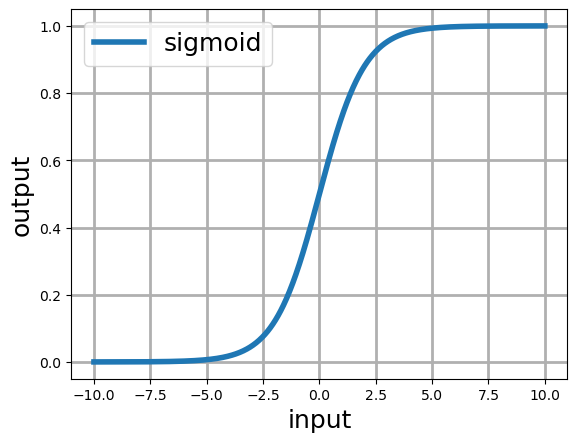
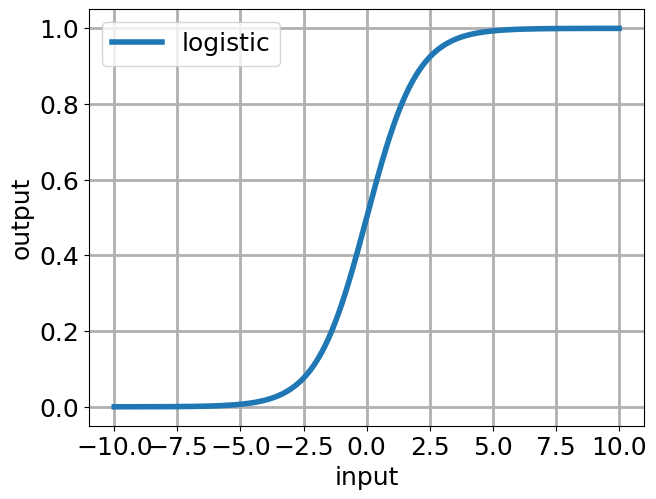
Changes to be committed: 	modified:   TeX_ML/ei_ml_arxiv/Figures/scripts/actfuncs.py 	modified:   TeX_ML/ei_ml_arxiv/Figures/scripts/logistic.png 	modified:   TeX_ML/ei_ml_arxiv/Figures/scripts/minsoftplus.png 	modified:   TeX_ML/ei_ml_arxiv/Figures/scripts/softplus.png 	modified:   TeX_ML/ei_ml_arx

Changed region(s): [[0.0, 0.0, 0.9983, 1.0]]

diff --git a/TeX_ML/ei_ml_arxiv/ei_ml_arxiv.tex b/TeX_ML/ei_ml_arxiv/ei_ml_arxiv.tex
@@ -318,32 +318,32 @@ Finally we note that as a final post-processing step we can apply thresholding (
 \begin{figure}[h]
   \centering
   %
-  \begin{subfigure}[c]{0.45\linewidth}
+  \begin{subfigure}[c]{5.5cm}
     \includegraphics[totalheight=4cm]{Figures/scripts/softplus.png}
     \caption{softplus}
   \end{subfigure}
   %
-  \begin{subfigure}[c]{0.45\linewidth}
+  \begin{subfigure}[c]{5.5cm}
     \includegraphics[totalheight=4cm]{Figures/scripts/logistic.png}
     \caption{logistic}
-  \end{subfigure}
+  \end{subfigure}\\
   %
-  \begin{subfigure}[c]{0.45\linewidth}
+  \begin{subfigure}[c]{5.5cm}
     \includegraphics[totalheight=4cm]{Figures/scripts/tanh.png}
     \caption{tanh}
   \end{subfigure}
   %
-  %\begin{subfigure}[c]{0.45\linewidth}
+  %\begin{subfigure}[c]{0.23\linewidth}
   %  \includegraphics[totalheight=4cm]{Figures/scripts/minsoftplus.png}
   %  \caption{softplusmin}
   %\end{subfigure}
   %
-  \begin{subfigure}[c]{0.45\linewidth}
+  \begin{subfigure}[c]{5.5cm}
     \includegraphics[totalheight=4cm]{Figures/scripts/twistedtanh.png}
     \caption{twisted tanh}
   \end{subfigure}
   %
-\caption{\label{fig:activations} Activations functions for equations (\ref{eqn:softplus}-\ref{eqn:twisttanh}).}
+\caption{\label{fig:activations} Activation functions for equations (\ref{eqn:softplus}-\ref{eqn:twisttanh}).}
 \end{figure}
 %
 \begin{table}
@@ -411,7 +411,7 @@ A CNN capable of predicting shear modulus fields from displacement or strain fie
 \item{Training CNNs to recognize nonlinear parameters would be a worthwhile research direction.}
 \item{A hybrid approach combining machine learning and traditional approaches (iterative or direct) will be interesting. We envision that the ML based approach will provide a measure of the confidence in its output. If this is confidence is low, then a solution will be computed using traditional methods and perhaps added to the machine learning training dataset.}
 \item{Extending the method studied in this document to predict multiple parameter fields will be interesting, because the method will have to study the features in the displacement or strain fields and then decide which parameter field was responsible for producing those features. Such cases will occur when we try to predict both $\lambda(x)$ and $\mu(x)$ for linear elasticity or the nonlinear parameter $\gamma(x)$ and the linear parameter $\mu(x)$ as in \cite{paper:gokhale2008}}
-\item{Software and performance issues: The finite element solver and associated scripts for generating the data were written in Python 3.8. Python is slow and much better performance could be obtained by writing the solver in C/C++/Fortran or Julia or using open source solvers like FEniCS \cite{paper:fenics} or deal.II \cite{misc:deal.ii}. Each FE input file is 3.3MB and output file is 1.1MB and total dataset size is $\approx$  20GB. Approximately 10 seconds were required to compute one training example. There was no effort made to minimize the size of input and output files. Simple text based JSON files were used because of their simplicity. If one wants increase the number of training examples by a factor of thousand, 20TB of data would be required. Optimized data structures and hardware supporting fast disk access (SSDs) will be necessary for scaling to large data sets. The use of GPU clusters to process large amounts of data may also need to be considered. The simulations to generate data and the CNN training in this work were carried out on an Intel i5-4460 3.2Ghz processor with four physical and logical cores and 8GB RAM. The OS used was Windows 10 running WSL2. TensorFlow 2.4 was used.}
+\item{Software and performance issues: The finite element solver and associated scripts for generating the data were written in Python 3.8. While the elements were accelerated using Numba \cite{conf:numba}, we believe that better performance could be obtained by writing the solver in C/C++/Fortran or Julia or using open source solvers like FEniCS \cite{paper:fenics} or deal.II \cite{misc:deal.ii}. Each FE input file is 3.3MB and output file is 1.1MB and total dataset size is $\approx$  20GB. Approximately 10 seconds were required to compute one training example. There was no effort made to minimize the size of input and output files. Simple text based JSON files were used because of their simplicity. If one wants increase the number of training examples by a factor of thousand, 20TB of data would be required. Optimized data structures and hardware supporting fast disk access (SSDs) will be necessary for scaling to large data sets. The use of GPU clusters to process large amounts of data may also need to be considered. The simulations to generate data and the CNN training in this work were carried out on an Intel i5-4460 3.2Ghz processor with four physical and logical cores and 8GB RAM. The OS used was Windows 10 running WSL2. TensorFlow 2.4 was used.}
 \end{enumerate}
 \clearpage
 \bibliography{eibib}{}

diff --git a/TeX_ML/ei_ml_arxiv/Figures/scripts/actfuncs.py b/TeX_ML/ei_ml_arxiv/Figures/scripts/actfuncs.py
@@ -12,12 +12,18 @@ import matplotlib.pyplot as plt
 xvals = np.linspace(-10,10,1024)
 
 def plotarr(xx,yy,leg,fname):
+    fontsize=18
+    minorticksize=14
     plt.figure()
     plt.plot(xx,yy,linewidth='4')
     plt.grid(True,which='both',linewidth='2')
-    plt.xlabel('input',fontsize=18)
-    plt.ylabel('output',fontsize=18)
-    plt.legend([leg],fontsize=18)
+    plt.xticks(fontsize=fontsize)
+    plt.yticks(fontsize=fontsize)
+    plt.tick_params(axis='both', which='minor', labelsize=minorticksize)
+    plt.tight_layout()    
+    plt.xlabel('input',fontsize=fontsize)
+    plt.ylabel('output',fontsize=fontsize)
+    plt.legend([leg],fontsize=fontsize)
     plt.savefig(fname,bbox_inches='tight')
 
 
